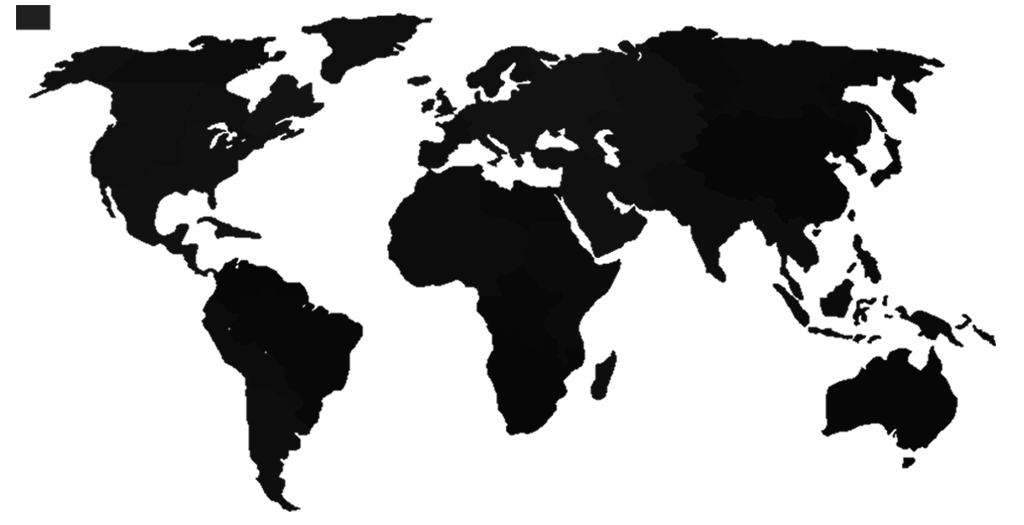
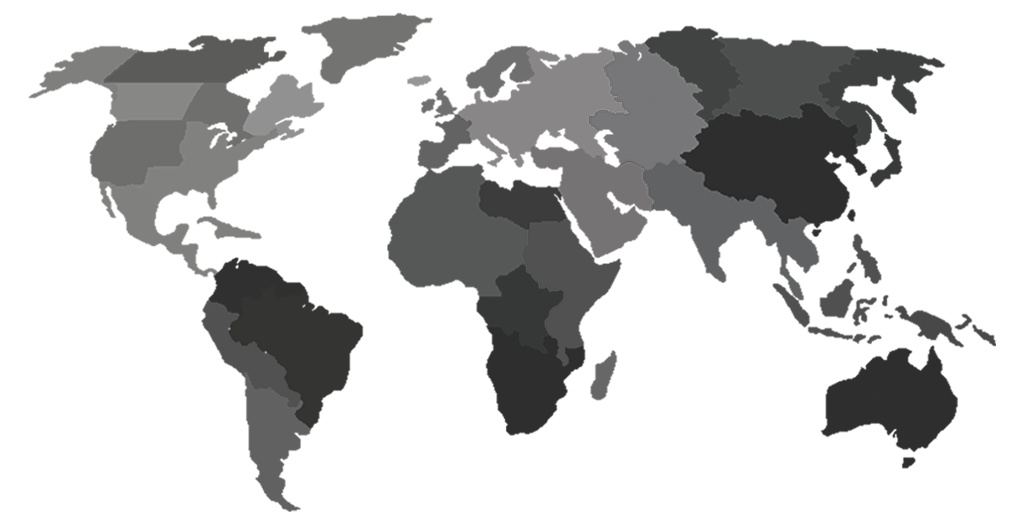
noch mal Karte

diff --git a/Risiko/src/risiko/local/ui/gui/swing/game/KartenPanel.java b/Risiko/src/risiko/local/ui/gui/swing/game/KartenPanel.java
@@ -47,38 +47,90 @@ public class KartenPanel extends JPanel {
 		initialize(spielername, screenWidth, screenHeight, lp);
 	}
 	
-	private void initialize(String spielername, int screenWidth, int screenHeight,  JLayeredPane lp) {
+	private void initialize(String spielername, int screenWidth, int screenHeight,  JLayeredPane orginaleLayerPane) {
 		this.setSize(width,height);
 		this.setPreferredSize(new Dimension(width,height));
 		
-		JLayeredPane layers = lp;
-		JLayeredPane mapPanel = new JLayeredPane();// new JPanel();
-		mapPanel.setBounds(0, 0, 1024, 525);
+		JLayeredPane orginalLayerPane = orginaleLayerPane;
+		JLayeredPane kartenLayer = new JLayeredPane();
+		kartenLayer.setBounds(0, 0, 1024, 525);
+		kartenLayer.setLayout(null);
+		
+		ImagePanel myImage = new ImagePanel(this);
+		ImagePanelZeigen myImageZeigen = new ImagePanelZeigen(this);
 		
 		ImageIcon face = new ImageIcon("images/Gewonnen.png"); 
-		JLabel fLab = new JLabel(face);
-        fLab.setBounds(25, 25, 100, 100);
-        fLab.setPreferredSize(new Dimension(100,100));
-//        layers.add(fLab);
-//        JLabel fLab2 = new JLabel(face);
-//        fLab2.setBounds(75, 75, 100, 100);
-//        layers.add(fLab2);
-//        
-//		
-		ImagePanel myImage = new ImagePanel(this);
-//		layers.add(myImage);
-		ImagePanelZeigen myImageZeigen = new ImagePanelZeigen(this);
-//		//this.add(myImageZeigen);
-//		layers.add(myImageZeigen);
-//	//	this.add(layers);
-		mapPanel.add(fLab);
-		mapPanel.add(myImageZeigen);
-		mapPanel.add(myImage);
+//		JLabel alaska = new JLabel(face); //new JLabel(face);
+//		alaska.setBounds(85, 65, 10, 10);
+//		alaska.setPreferredSize(new Dimension(100,100));
+//		alaskaText.setPreferredSize(new Dimension(100,100));
+		JLabel alaskaText = new JLabel("3"); //new JLabel(face);
+		alaskaText.setLocation(86, 62);
+		alaskaText.setSize(new Dimension(10,10));
+		alaskaText.setBackground(Color.WHITE);
+		alaskaText.setOpaque(true);
+		kartenLayer.add(alaskaText);
+		
+		JLabel nwTerriteriumText  = new JLabel("3");
+		nwTerriteriumText.setLocation(172, 62);
+		nwTerriteriumText.setSize(new Dimension(10,10));
+		nwTerriteriumText.setBackground(Color.WHITE);
+		nwTerriteriumText.setOpaque(true);
+		kartenLayer.add(nwTerriteriumText);
+		
+		JLabel ontarioText  = new JLabel("4");
+		ontarioText.setLocation(150, 100);
+		ontarioText.setSize(new Dimension(10,10));
+		ontarioText.setBackground(Color.WHITE);
+		ontarioText.setForeground(Color.RED);
+		ontarioText.setOpaque(true);
+		kartenLayer.add(ontarioText);
+		
+		JLabel argentinienText  = new JLabel("6");
+		argentinienText.setLocation(270, 478);
+		argentinienText.setSize(new Dimension(10,10));
+		argentinienText.setBackground(Color.WHITE);
+		argentinienText.setOpaque(true);
+		kartenLayer.add(argentinienText);
+		
+		JLabel islandText  = new JLabel("8");
+		islandText.setLocation(412, 62);
+		islandText.setSize(new Dimension(10,10));
+		islandText.setBackground(Color.WHITE);
+		islandText.setForeground(Color.RED);
+		islandText.setOpaque(true);
+		kartenLayer.add(islandText);
+		
+		JLabel großbritanienText  = new JLabel("3");
+		großbritanienText.setLocation(350, 62);
+		großbritanienText.setSize(new Dimension(10,10));
+		großbritanienText.setBackground(Color.WHITE);
+		großbritanienText.setOpaque(true);	
+		
+		JLabel kamtschatkaText  = new JLabel("9");
+		kamtschatkaText.setLocation(918, 62);
+		kamtschatkaText.setSize(new Dimension(10,10));
+		kamtschatkaText.setBackground(Color.WHITE);
+		kamtschatkaText.setForeground(Color.RED);
+		kamtschatkaText.setOpaque(true);
+		kartenLayer.add(kamtschatkaText);
+		
+		JLabel ostAustralienText  = new JLabel("7");
+		ostAustralienText.setLocation(920, 430);
+		ostAustralienText.setSize(new Dimension(10,10));
+		ostAustralienText.setBackground(Color.WHITE);
+		ostAustralienText.setOpaque(true);
+		kartenLayer.add(ostAustralienText);
 		
 		
 		
 		
-		layers.add(mapPanel);
+		
+	//	kartenLayer.add(alaska);
+		kartenLayer.add(myImageZeigen);
+		kartenLayer.add(myImage);
+
+		orginalLayerPane.add(kartenLayer);
 		
 	//	ImagePanel myImage = new ImagePanel(this);
 //		this.add(myImage);

diff --git a/Risiko/src/risiko/local/ui/gui/swing/game/ImagePanel.java b/Risiko/src/risiko/local/ui/gui/swing/game/ImagePanel.java
@@ -54,27 +54,7 @@ public class ImagePanel extends JPanel{
        
     }
 
-    //TODO wieder raus, zum Test der Layered Pane brauchte ich nen anderen Konstruktor
-    public ImagePanel() {
-       	this.setSize(imgPanelWidth,imgPanelHeigth);
-    		this.setPreferredSize(new Dimension(imgPanelWidth,imgPanelHeigth));
-    	//	this.phasenPanel = phasenPanel;
-
-           try {
-              bi = ImageIO.read(new File("images/WeltkarteFINAL.png"));
-              trueWidth = bi.getWidth();
-      		  trueHeight = bi.getHeight();
-              setSize(imgPanelWidth,imgPanelHeigth);
-              this.addMouseListener(getMouseAdapter());
-           } catch (IOException ex) {
-        	   System.out.println(ex.getMessage());
-                // handle exception...
-           }
-           this.setVisible(true);
-
-	}
-
-	@Override
+    @Override
 	public void paint(Graphics g) {
 //        super.paintComponent(g);
         Dimension d = getSize(); //1000, 600,
@@ -118,7 +98,7 @@ public class ImagePanel extends JPanel{
 //					rgb = c.getRGB();
 					//System.out.println(c);
 					System.out.println("Farbwert: " + myColor.hashCode());
-				//	kartenenPanel.setClickedProvinz(getProvinzByColor(myColor)); 
+					kartenenPanel.setClickedProvinz(getProvinzByColor(myColor)); 
 					//getProvinzIDByColor(rgb);
 //					System.out.println(getProvinzIDByColor(rgb));
 					System.out.println(myColor.getRGB());

diff --git a/Risiko/src/risiko/local/ui/gui/swing/game/ImagePanelZeigen.java b/Risiko/src/risiko/local/ui/gui/swing/game/ImagePanelZeigen.java
@@ -39,7 +39,7 @@ public class ImagePanelZeigen extends JPanel{
 	//	this.phasenPanel = phasenPanel;
 
        try {
-          bi = ImageIO.read(new File("images/WeltkarteFINALschwarz.png"));
+          bi = ImageIO.read(new File("images/WeltkarteBlauKreise.png"));
           trueWidth = bi.getWidth();
   		  trueHeight = bi.getHeight();
           setSize(imgPanelWidth,imgPanelHeigth);
@@ -65,11 +65,5 @@ public class ImagePanelZeigen extends JPanel{
 		scaleFactorX = trueWidth / parentWidth;
 		scaleFactorY = trueHeight / parentHeight;
 		
-//		
-//		System.out.println(scaleFactorX +" y: " + scaleFactorY);
-//		System.out.println(trueWidth + " " + trueHeight);
-//		System.out.println("breite "+this.getWidth() + " hoehe" + this.getHeight());
-//		System.out.println("breite "+this.getParent().getWidth() + " hoehe" + this.getParent().getHeight());
-//        g.drawImage(image, 0, 0, this); // see javadoc for more info on the parameters            
     }
 }	

diff --git a/Risiko/src/risiko/local/ui/gui/swing/FaceLayout.java b/Risiko/src/risiko/local/ui/gui/swing/FaceLayout.java
@@ -74,11 +74,11 @@ public class FaceLayout extends JFrame {
    
         JLayeredPane layers = new JLayeredPane();
         
-        ImagePanel myImage = new ImagePanel();
+      //  ImagePanel myImage = new ImagePanel();
        // myImage.setVisible(false);
 		//this.add(myImage);
 		
-		layers.add(myImage, 6);
+//		layers.add(myImage, 6);
         layers.add(fLab, 2);
         layers.add(eLab, 3);
         layers.add(nLab, 4);
